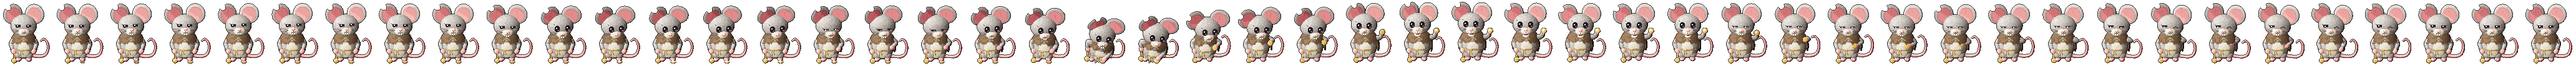
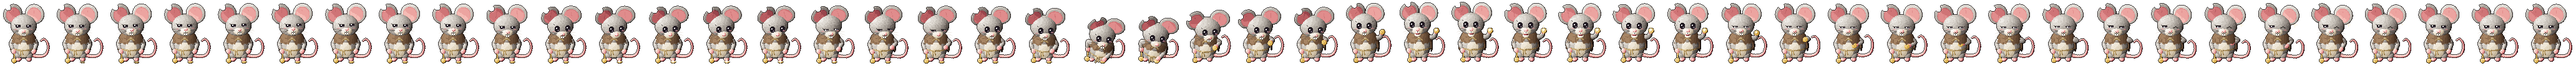
feat(pets): мышь-воришка в пикселях — рисунок и анимации по эталону боссов
Claude-Session: https://claude.ai/code/session_018QnrYRe8jfmREkVPy3Dca8

diff --git a/src/lib/pets-pixel/mouse.ts b/src/lib/pets-pixel/mouse.ts
@@ -803,7 +803,8 @@ function workPose(t: number): Pose {
   o.tailUp = 0.9 * pos(dive) + 0.4 * bump(t, LIFT, 1.5);
   o.tailSw = -0.3 * pos(dive) + 0.3 * Math.sin(t * TAU * 2) * bump(t, 1.1, 1.9);
   // Держит жетон над плечом — подпрыгнула на носочки.
-  o.z = 0.8 * bump(t, HIGH - 0.06, 1.34);
+  // Держит над плечом — тянется на носочки (ступни на полу).
+  o.cz -= 0.7 * bump(t, HIGH - 0.06, 1.34);
   o.glint = 0.85 * bump(t, SPOT + 0.02, 0.64) + bump(t, HIGH - 0.02, 1.34);
   // Подмигнула.
   o.wink = kf(t, [
@@ -849,7 +850,16 @@ function attackPose(t: number): Pose {
     [0.6, 0.3, 's'],
     [T, 0, 's'],
   ]);
-  o.y = 3.6 * pos(l) - 0.6 * neg(l);
+  // К зрителю — прыжком (ступни в воздухе, пока тело летит), назад — вторым прыжком.
+  o.y = kf(t, [
+    [0, 0],
+    [0.28, 0],
+    [0.38, 3.6, 'o'],
+    [0.58, 3.4],
+    [0.74, 0, 's'],
+    [T, 0],
+  ]);
+  o.z = 1.4 * bump(t, 0.27, 0.43) + 0.8 * bump(t, 0.57, 0.77);
   o.scale = 1 + 0.18 * pos(l);
   o.cz = 1.3 * neg(l);
   o.sq = 0.06 * neg(l) + 0.05 * bump(t, 0.5, 0.66);
@@ -1050,8 +1060,8 @@ export function skel(o: Pose): Skel {
     knee: [z3, z3],
     ank: [z3, z3],
     foot: [
-      [-pl.foot[0] * s, pl.foot[1] * s + o.fLy * G + o.y, pl.foot[2] * s + o.fLz * G + lift],
-      [pl.foot[0] * s, pl.foot[1] * s + o.fRy * G + o.y, pl.foot[2] * s + o.fRz * G + lift],
+      [-pl.foot[0] * G, pl.foot[1] * G + o.fLy * G + o.y, pl.foot[2] * G + o.fLz * G + lift],
+      [pl.foot[0] * G, pl.foot[1] * G + o.fRy * G + o.y, pl.foot[2] * G + o.fRz * G + lift],
     ],
   };
   /** Рука в точку: запястье (`tip` = 0) или кончики пальцев (`tip` = 1 — кость до них длиннее). */
@@ -1274,7 +1284,7 @@ function fur(qx: number, qy: number, qz: number): number {
   const fv = (qz + 2) * 7 - r;
   const tick = fu < 0.18 && fv > 0.25 ? -0.07 : fu > 0.55 && fu < 0.7 && fv < 0.4 ? 0.05 : 0;
   const n = hash(Math.floor((qx + 2) * 11), Math.floor((qz + 2) * 13), Math.floor((qy + 2) * 3));
-  return tick + (n < 0.1 ? -0.04 : n > 0.94 ? 0.04 : 0);
+  return tick + (n < 0.05 ? -0.04 : n > 0.97 ? 0.04 : 0);
 }
 
 /** Пальцы ступни: тёмные щели спереди (ось 1 — вперёд). */
@@ -1534,7 +1544,7 @@ function cape(out: PartF[], rods: Rod[], c: Ctx): void {
 }
 
 /** Ладошка: розовая, на крупной — пальцы щелями у кончика. */
-function pawPick(qx: number, qy: number, qz: number): number {
+function pawPick(qx: number, qy: number): number {
   PICK_T = 0;
   if (qx < -0.7) {
     PICK_T = -0.02;

diff --git a/src/lib/pets-pixel.test.ts b/src/lib/pets-pixel.test.ts
@@ -1134,7 +1134,8 @@ describe('пиксельная мышь', () => {
     for (let y = 0; y < p.h; y++)
       for (let x = x0; x < p.w; x++) {
         const j = (y * p.w + x) * 4;
-        if (p.data[j + 3] === 255 && pal.includes(`${p.data[j]},${p.data[j + 1]},${p.data[j + 2]}`)) n++;
+        if (p.data[j + 3] === 255 && pal.includes(`${p.data[j]},${p.data[j + 1]},${p.data[j + 2]}`))
+          n++;
       }
     return n;
   };
@@ -1249,6 +1250,19 @@ describe('пиксельная мышь', () => {
     expect(strike.swipe).toBeGreaterThanOrEqual(0);
     const sleep = W.poseAt('sleep', 1);
     expect([sleep.sit, sleep.wrap, sleep.earDrop, sleep.eye]).toEqual([1, 1, 1, 'sleep']);
+  });
+
+  it('ступни не скользят: двигаются только в воздухе (прыжки атаки и радости, шаг)', () => {
+    for (const an of ['idle', 'happy', 'work', 'attack', 'sleep'] as Anim[])
+      for (let i = 0; i < W.FRAMES[an]; i++) {
+        const a = W.poseAt(an, i / W.FPS);
+        const b = W.poseAt(an, (i + 1) / W.FPS);
+        if (Math.max(a.z, b.z, a.fLz, b.fLz, a.fRz, b.fRz) > 0) continue;
+        for (const j of [0, 1]) {
+          const d = dist(W.skel(a).foot[j], W.skel(b).foot[j]);
+          expect([an, i, j, d < 0.35]).toEqual([an, i, j, true]);
+        }
+      }
   });
 
   it('ходьба на цыпочках: ноги по очереди, опорная стоит на месте', () => {

diff --git a/src/lib/pet-pixel-sprites.ts b/src/lib/pet-pixel-sprites.ts
@@ -185,7 +185,7 @@ export const PET_PX: Record<string, PetPx> = {
   },
   mouse: {
     box: 48,
-    rev: 'abb283a5e5',
+    rev: 'a3ab13b7f0',
     anims: {
       idle: { n: 72, fps: 24, x: 4, y: 1, w: 42, h: 50 },
       walk: { n: 24, fps: 24, x: 3, y: 3, w: 43, h: 46 },
@@ -201,7 +201,7 @@ export const PET_PX: Record<string, PetPx> = {
         walk: { n: 24, fps: 24, x: 13, y: 13, w: 90, h: 97 },
         happy: { n: 26, fps: 24, x: 16, y: -1, w: 86, h: 114 },
         work: { n: 48, fps: 24, x: 18, y: 7, w: 86, h: 107 },
-        attack: { n: 22, fps: 24, x: -2, y: -5, w: 117, h: 118 },
+        attack: { n: 22, fps: 24, x: -2, y: -5, w: 117, h: 119 },
         sleep: { n: 72, fps: 24, x: 16, y: 13, w: 83, h: 101 },
       },
     },

diff --git a/.claude/rules/pets.md b/.claude/rules/pets.md
@@ -461,6 +461,33 @@ Owner: «добавь возможность выбирать скин у пит
   (a gold helmet vanished on gold fur), copper lamp/buckle, dark bronze leather. Hatch plays
   `happy`. Weight 520 KB v0+v1 (small 52 / 59, large 196 / 211, thumbs 1 KB; ink was 1.60 MB).
   Tests «пиксельный крот» in `pets-pixel.test.ts`.
+- **Mouse** (`pets-pixel/mouse.ts`, `mouseFrame(a, i, res, v)`, `variants: [1]`): «Мышь-воришка»,
+  a light-grey mouse STANDING facing us (mole's `drawPartsF` + `cut`/`inner` = a cut shell shows
+  its dark lining, `tube` light for the tail). 44-px read: two huge round ears (thin discs, pink
+  bowl + fur rim, viewer's-left one notched by a `cut`), big bead eyes under a sly lid (large:
+  procedural ellipse, glint, raised lower lid), pink nose, brown capelet, pink tail curling up at
+  the viewer's right. Capelet = ONE ellipsoid shell (`capeFrame`, spring sway): yoke ring above
+  `yokeZ` covers shoulders + chest; below it only back + sides to the ragged `hemZ`; wedge slit
+  from the throat knot (`KNOT_QZ`). Rope belt (twist stripes, knot, frayed ends), «ω» mouth +
+  buck teeth, whiskers blended over fur. Chain token always in the LEFT paw (pendulum lags).
+  Work (2 s): sniff → spot 0.42 (wide eyes, head to the token, glint ON the floor token) → sly
+  crouch → dart (bow 0.45, crouch 2, lean right; head counter-nods so the face stays visible) →
+  `GRAB` = frame 20 exactly: fingertips (`S.grip`; IK straight to the fingertip with a longer
+  forearm bone — the iterative wrist aim missed by 0.8 px) on the token lying in front of the
+  right foot → token turns upright before the fingers → held over the shoulder under the ear, on
+  tiptoe (`cz` < 0, NOT `z`: that lifted the feet) → under the yoke edge → up into the gap
+  between capelet and chest, tilted back along it (vertical, it poked through the curved yoke) →
+  gone 1.6 s → wink + spark. Tests: `underCape` at `TUCKED`, no brass pixels right of centre
+  there (s/l, v0/v1). Attack: clawed paws up by the cheeks → HOP at the viewer (scale 1.18; a
+  slide skated both feet 3.6 px), paws cross down, teeth bared, three diagonal slashes over empty
+  pixels → hop back. Happy: two hops, paws V, giggle into the right paw. Walk: tiptoe in place,
+  paws before the chest, tail up. Sleep: wrapped (`wrap` closes slit + sides), ears droop, tail
+  round the front, clutches the chain token. Pitfalls: brow arcs over the eyes read as a second
+  pair of shut eyes; straight tie strings + the slit read as a letter «A» (now a bow). Gold: gold
+  fur with bronze depth, rose-gold ears/nose/paws/tail, dark leather capelet, dark bronze rope,
+  COPPER token. Hatch plays `happy`. Weight 577 KB v0+v1 (small 58 / 64, large 216 / 236, thumbs
+  1 KB; ink was 1.85 MB). Tests «пиксельная мышь» in `pets-pixel.test.ts` (feet never slide on
+  the floor in any animation).
 - **Грабли**: `rig.ts` импортирует `../dungeon-tiles` ДО `../dungeon-art`
   (иначе круг модулей под vite-node: `hex is not a function`); у `pitchX`
   положительный угол наклоняет «вперёд-вниз» — клюв смотрел в небо;
